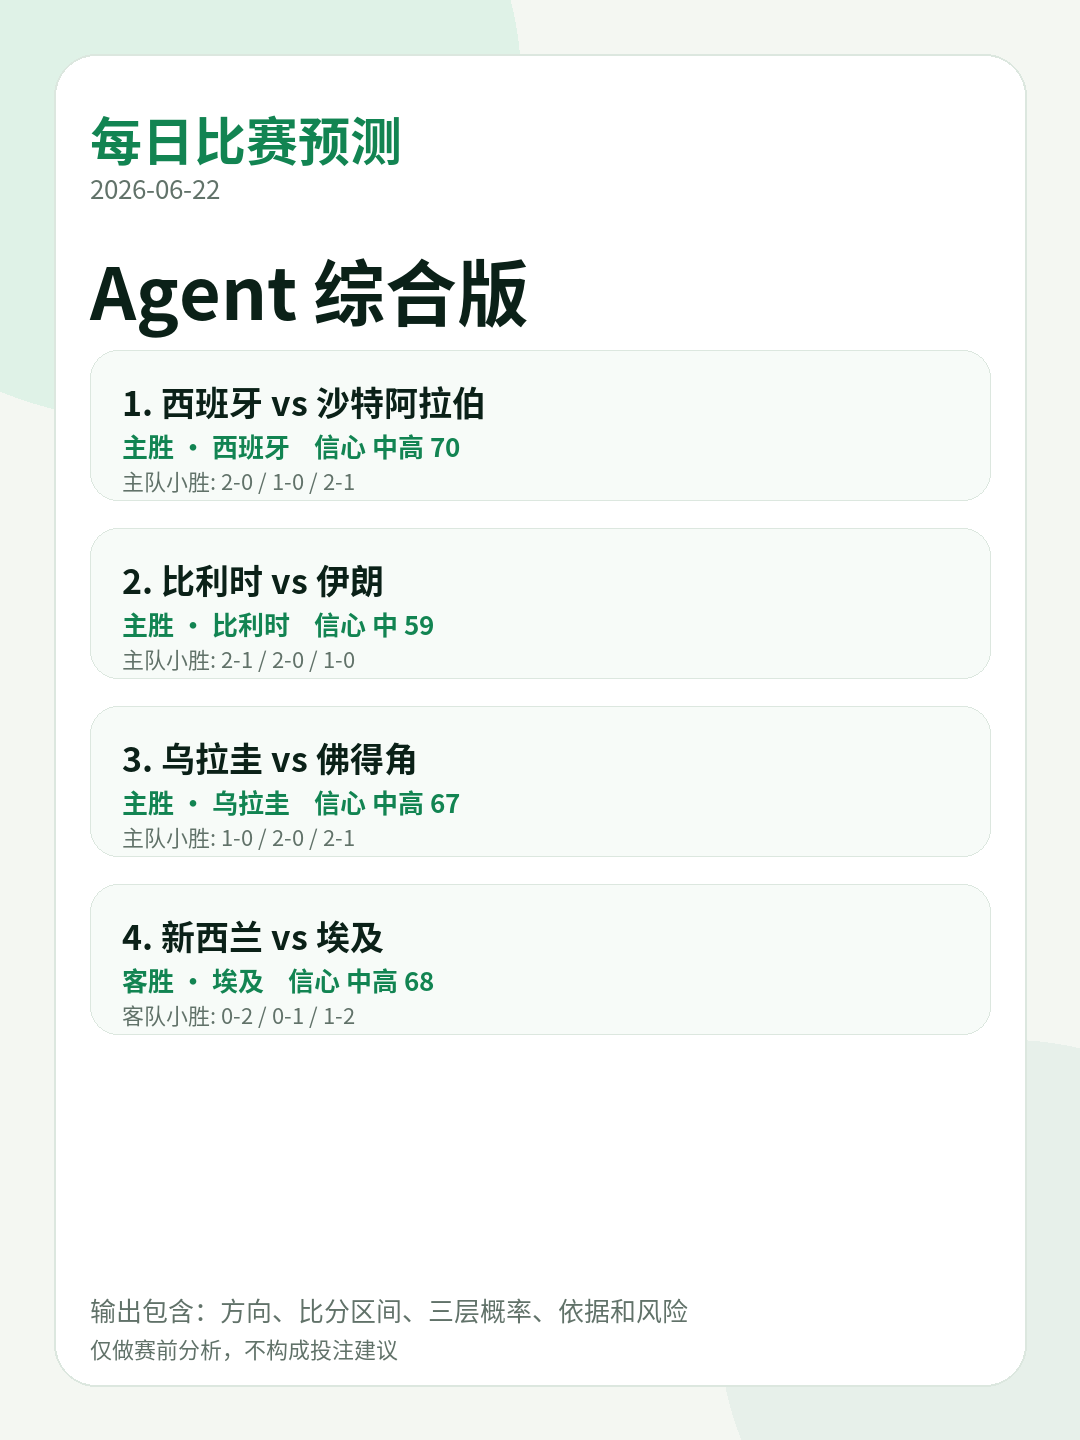
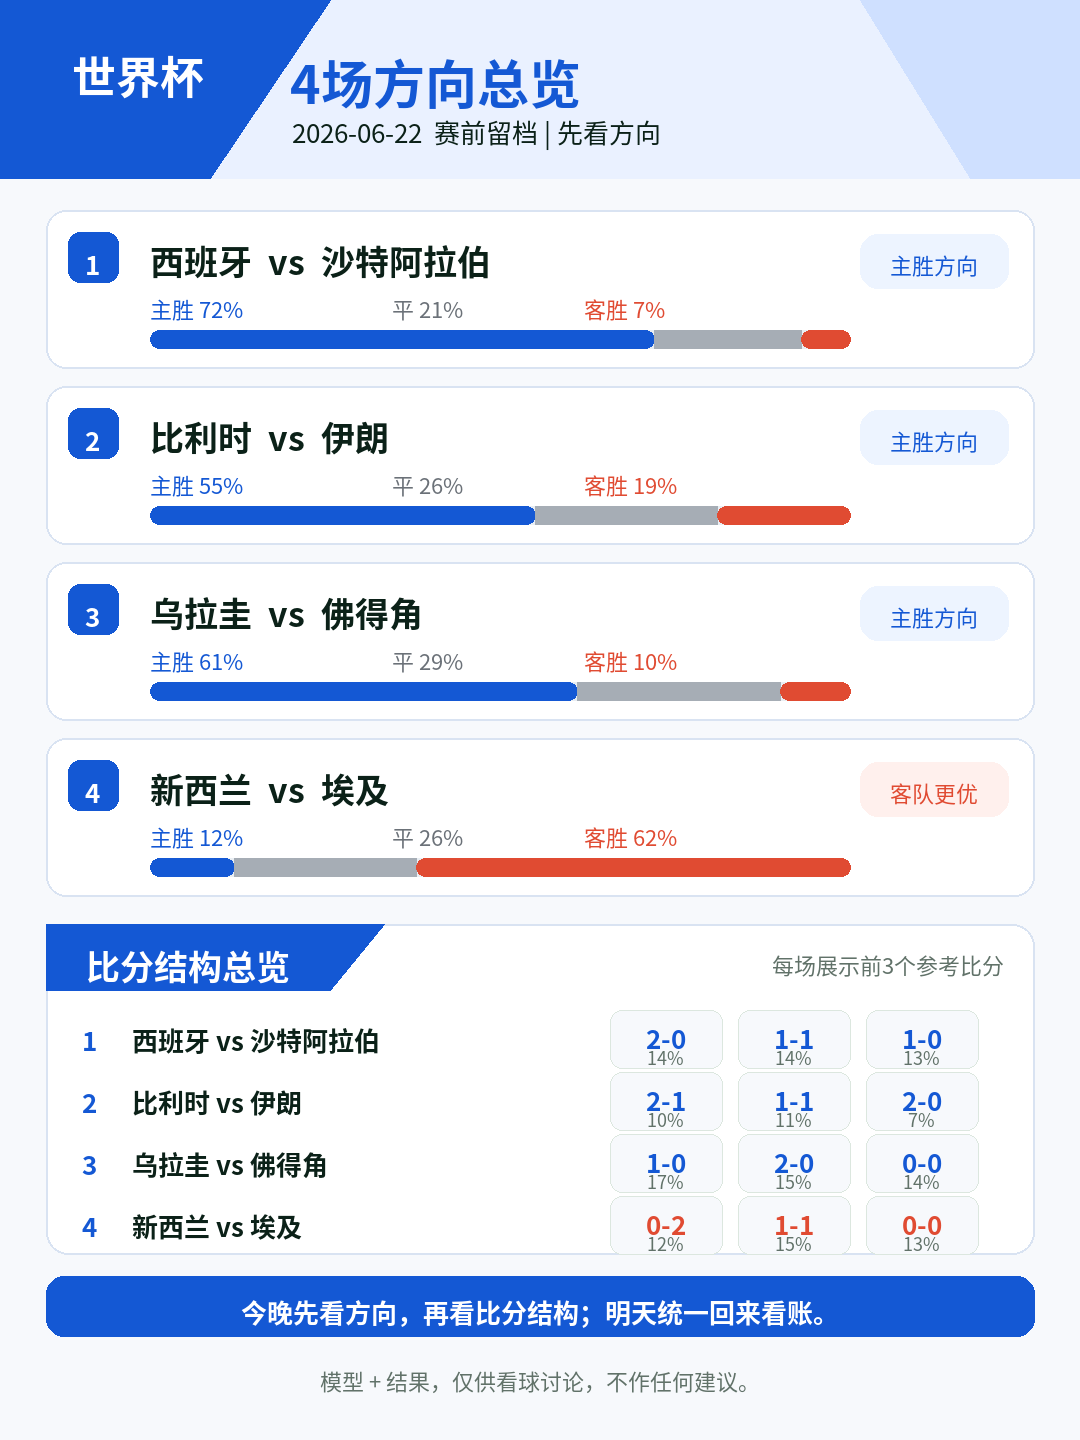
feat: redesign xhs overview card

diff --git a/scripts/render-agent-cards.py b/scripts/render-agent-cards.py
@@ -13,6 +13,9 @@ TEXT = "#0b2118"
 MUTED = "#617269"
 ACCENT = "#128452"
 ACCENT_2 = "#0f6f47"
+BLUE = "#1458d4"
+RED = "#e04b32"
+GRAY = "#a6adb5"
 WARN = "#b7791f"
 DANGER = "#c94c43"
 LINE = "#dce7df"
@@ -107,6 +110,30 @@ def bar(draw, x, y, w, h, pct, label, color):
     text(draw, (x + w, y - 36), f"{pct}%", fill=TEXT, f=F["body_bold"], anchor="ra")
 
 
+def segmented_bar(draw, x, y, w, h, probs):
+    home = int(w * probs["home"] / 100)
+    draw_part = int(w * probs["draw"] / 100)
+    away = max(0, w - home - draw_part)
+    rounded(draw, (x, y, x + w, y + h), h // 2, "#e9eef3")
+    if home > 0:
+        rounded(draw, (x, y, x + home, y + h), h // 2, BLUE)
+    if draw_part > 0:
+        draw.rectangle((x + home, y, x + home + draw_part, y + h), fill=GRAY)
+    if away > 0:
+        rounded(draw, (x + home + draw_part, y, x + w, y + h), h // 2, RED)
+
+
+def direction_badge(draw, x, y, item):
+    if item["pick"] == "主胜":
+        label, color, fill = "主胜方向", BLUE, "#edf4ff"
+    elif item["pick"] == "客胜":
+        label, color, fill = "客队更优", RED, "#fff0ed"
+    else:
+        label, color, fill = "平局空间", GRAY, "#f3f5f7"
+    rounded(draw, (x, y, x + 148, y + 54), 18, fill)
+    text(draw, (x + 74, y + 14), label, fill=color, f=F["small"], anchor="ma")
+
+
 def card_base():
     img = Image.new("RGB", (W, H), BG)
     draw = ImageDraw.Draw(img)
@@ -181,22 +208,54 @@ def render_match(item, idx, total, out_path):
 
 
 def render_cover(payload, out_path):
-    img, draw = card_base()
-    rounded(draw, (54, 54, W - 54, H - 54), 42, WHITE, outline=LINE, width=2)
-    text(draw, (90, 100), "每日比赛预测", fill=ACCENT, f=F["title"])
-    text(draw, (90, 168), payload.get("targetDate", ""), fill=MUTED, f=F["body"])
-    text(draw, (90, 236), "Agent 综合版", fill=TEXT, f=F["num"])
-    y = 350
-    for idx, item in enumerate(payload.get("matches", [])[:5], start=1):
-        rounded(draw, (90, y, W - 90, y + 150), 28, "#f7fbf8", outline=LINE)
-        text(draw, (122, y + 26), f"{idx}. {item['title']}", fill=TEXT, f=F["h2"])
-        text(draw, (122, y + 76), f"{item['pick']} · {item['pickText']}    信心 {item['confidenceLabel']} {item['confidence']}", fill=ACCENT, f=F["body_bold"])
-        band = item.get("scoreBand", {})
-        examples = " / ".join(band.get("examples") or [])
-        text(draw, (122, y + 114), f"{band.get('label', '-')}: {examples}", fill=MUTED, f=F["small"])
-        y += 178
-    text(draw, (90, H - 150), "输出包含：方向、比分区间、三层概率、依据和风险", fill=MUTED, f=F["body"])
-    text(draw, (90, H - 108), "仅做赛前分析，不构成投注建议", fill=MUTED, f=F["small"])
+    img = Image.new("RGB", (W, H), "#f7f9fc")
+    draw = ImageDraw.Draw(img)
+    draw.rectangle((0, 0, W, 178), fill="#eaf1ff")
+    draw.polygon([(0, 0), (330, 0), (210, 178), (0, 178)], fill=BLUE)
+    draw.polygon([(W, 0), (W - 220, 0), (W - 110, 178), (W, 178)], fill="#cfe0ff")
+    text(draw, (72, 42), "世界杯", fill=WHITE, f=F["h1"])
+    text(draw, (290, 43), "4场方向总览", fill=BLUE, f=F["title"])
+    text(draw, (292, 112), f"{payload.get('targetDate', '')}  赛前留档 | 先看方向", fill=TEXT, f=F["body"])
+
+    matches = payload.get("matches", [])[:4]
+    y = 210
+    for idx, item in enumerate(matches, start=1):
+        rounded(draw, (46, y, W - 46, y + 158), 20, WHITE, outline="#d9e3f2", width=2)
+        rounded(draw, (68, y + 22, 118, y + 72), 12, BLUE)
+        text(draw, (93, y + 34), str(idx), fill=WHITE, f=F["body_bold"], anchor="ma")
+        title = item["title"].replace(" vs ", "  vs  ")
+        text(draw, (150, y + 25), title, fill=TEXT, f=F["h2"])
+        direction_badge(draw, W - 220, y + 24, item)
+        p = item["probabilities"]
+        text(draw, (150, y + 82), f"主胜 {p['home']}%", fill=BLUE, f=F["small"])
+        text(draw, (392, y + 82), f"平 {p['draw']}%", fill="#6b7178", f=F["small"])
+        text(draw, (584, y + 82), f"客胜 {p['away']}%", fill=RED, f=F["small"])
+        segmented_bar(draw, 150, y + 120, 700, 18, p)
+        y += 176
+
+    y += 10
+    rounded(draw, (46, y, W - 46, y + 330), 22, WHITE, outline="#d9e3f2", width=2)
+    draw.polygon([(46, y), (384, y), (330, y + 66), (46, y + 66)], fill=BLUE)
+    text(draw, (86, y + 16), "比分结构总览", fill=WHITE, f=F["h2"])
+    text(draw, (W - 76, y + 24), "每场展示前3个参考比分", fill=MUTED, f=F["small"], anchor="ra")
+    row_y = y + 86
+    for idx, item in enumerate(matches, start=1):
+        text(draw, (82, row_y + 10), str(idx), fill=BLUE, f=F["body_bold"])
+        text(draw, (132, row_y + 10), item["title"], fill=TEXT, f=F["body_bold"])
+        scores = item.get("topScores") or []
+        x = 610
+        for raw in scores[:3]:
+            score = raw.split("(")[0]
+            pct = raw[raw.find("(") + 1:raw.find(")")] if "(" in raw else ""
+            rounded(draw, (x, row_y, x + 112, row_y + 58), 12, "#f7f9fc", outline=LINE)
+            text(draw, (x + 56, row_y + 8), score, fill=BLUE if idx != 4 else RED, f=F["body_bold"], anchor="ma")
+            text(draw, (x + 56, row_y + 34), pct, fill=MUTED, f=F["tiny"], anchor="ma")
+            x += 128
+        row_y += 62
+
+    rounded(draw, (46, H - 164, W - 46, H - 104), 18, BLUE)
+    text(draw, (W // 2, H - 148), "今晚先看方向，再看比分结构；明天统一回来看账。", fill=WHITE, f=F["body_bold"], anchor="ma")
+    text(draw, (W // 2, H - 76), "模型 + 结果，仅供看球讨论，不作任何建议。", fill=MUTED, f=F["small"], anchor="ma")
     img.save(out_path, quality=95)
 
 

diff --git a/outputs/agent/2026-06-22.md b/outputs/agent/2026-06-22.md
@@ -1,6 +1,6 @@
 # 每日比赛预测 Agent
 
-生成时间：2026-06-21T10:22:46.704Z
+生成时间：2026-06-21T10:38:07.622Z
 目标日期：2026-06-22
 数据刷新：2026-06-21T09:30:43.703Z
 

diff --git a/outputs/agent/latest.md b/outputs/agent/latest.md
@@ -1,6 +1,6 @@
 # 每日比赛预测 Agent
 
-生成时间：2026-06-21T10:22:46.706Z
+生成时间：2026-06-21T10:38:07.624Z
 目标日期：2026-06-22
 数据刷新：2026-06-21T09:30:43.703Z
 